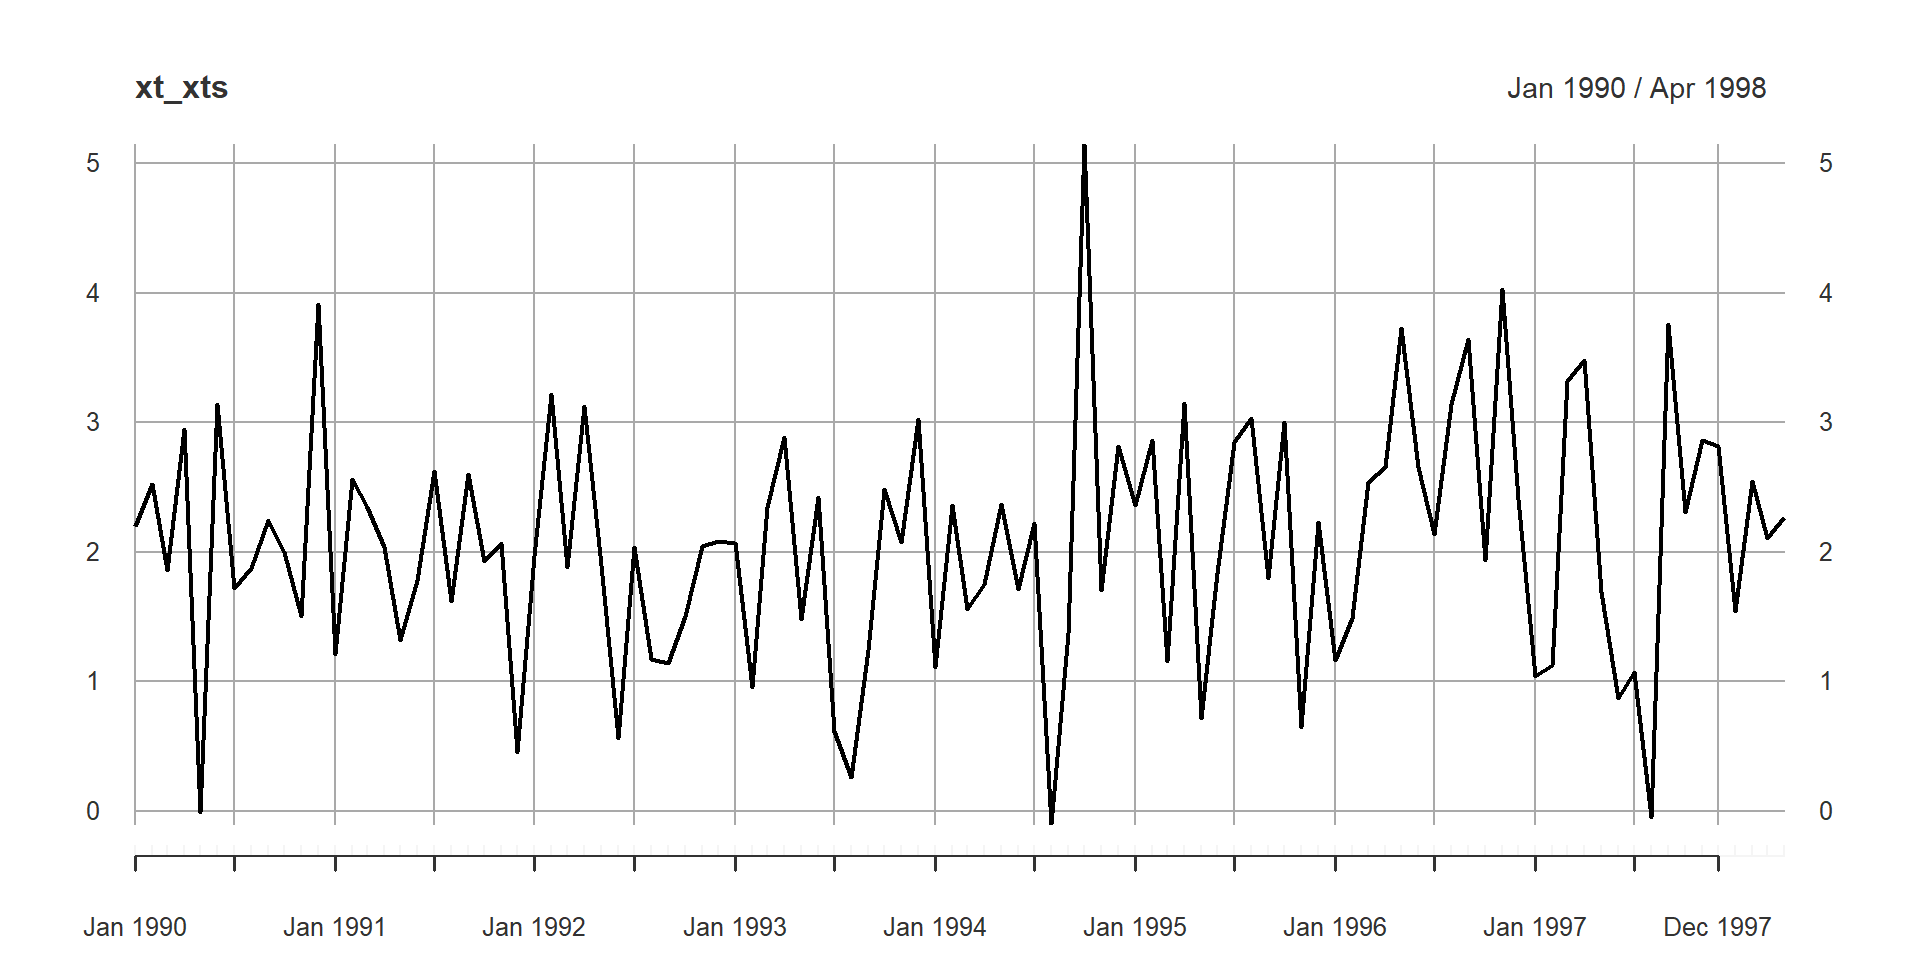
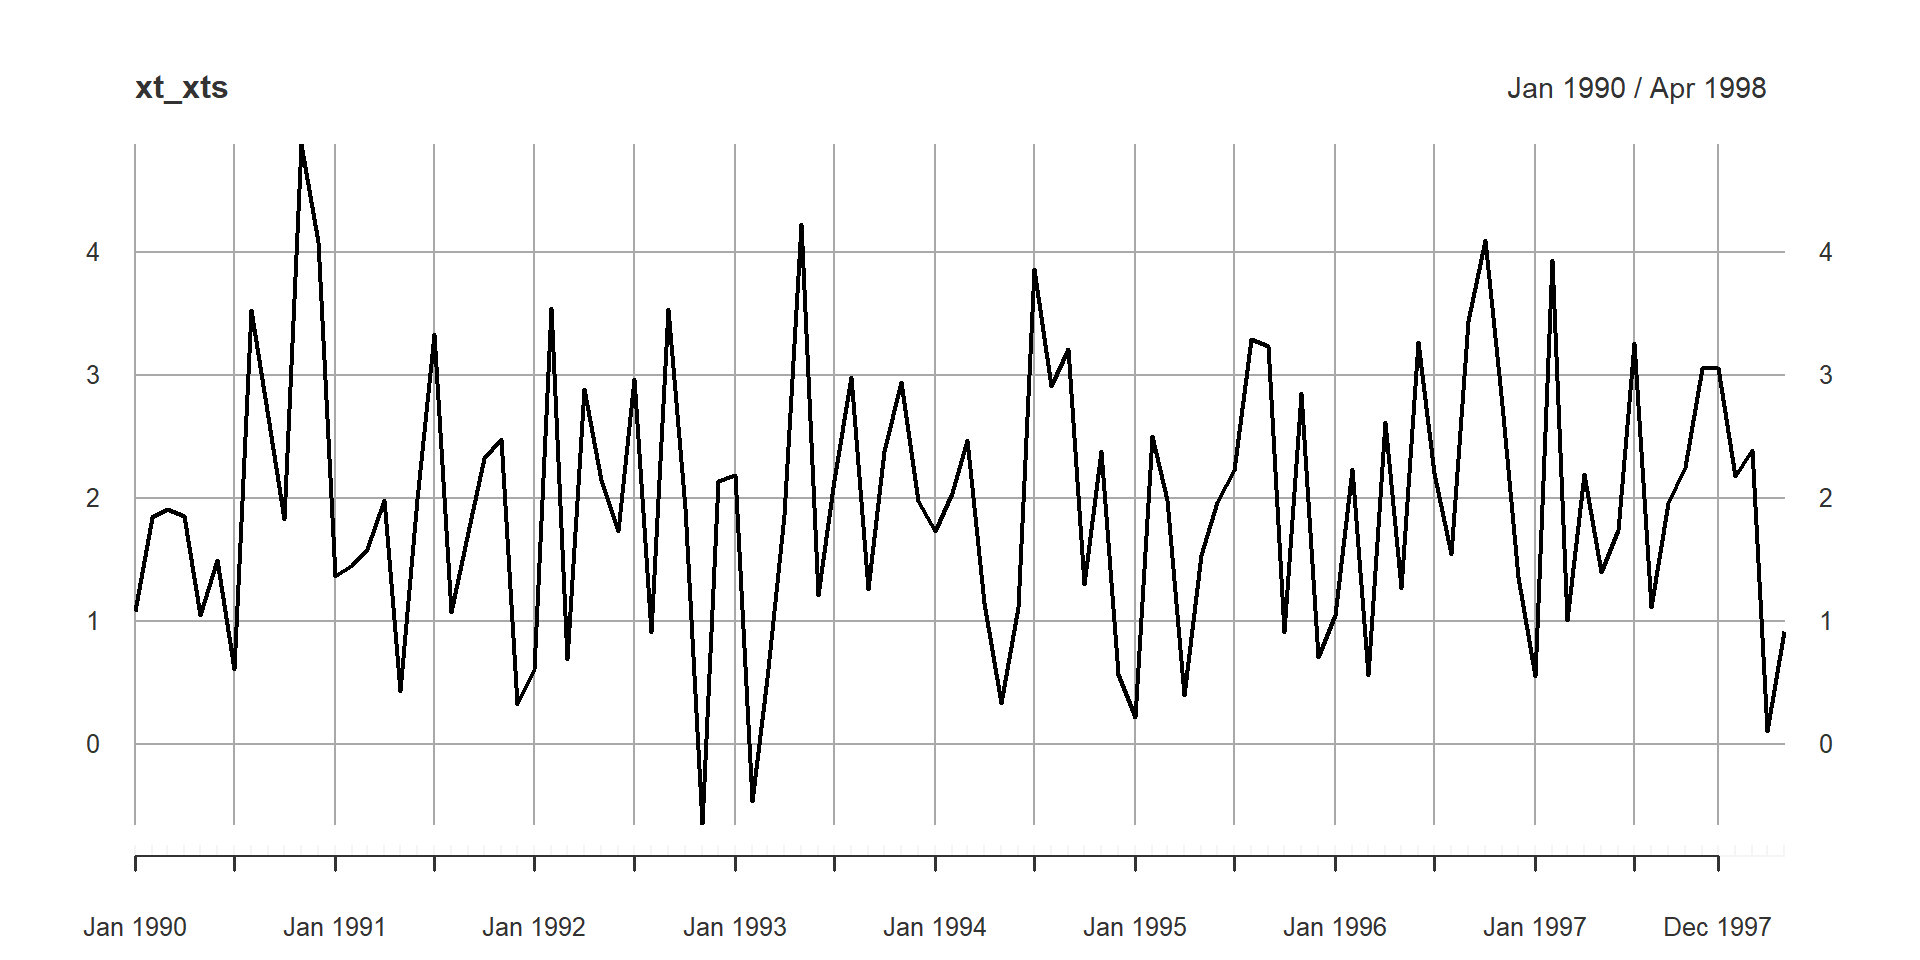
some more changed

Changed region(s): [[0.0625, 0.1562, 0.9375, 0.875], [0.1562, 0.1562, 0.1875, 0.1875]]

diff --git a/index.html b/index.html
@@ -475,6 +475,8 @@
 </ul>
 <aside class="notes">
 <ul>
+<li><span class="math inline">\(y(\omega,t)\)</span></li>
+<li>remeber the bell shape from edx</li>
 <li>cannot be accurately predicted</li>
 </ul>
 </aside>
@@ -488,6 +490,12 @@
 &amp;E\left[\left(y_{t}-\mu\right)\left(y_{t+k}-\mu\right)\right]=r_{k}
 \end{aligned}
 \end{equation}\]</span></p>
+<aside class="notes">
+<ul>
+<li>mention strong form of stationarity</li>
+<li>join distribution is time invariant</li>
+</ul>
+</aside>
 </section>
 <section id="white-noise-process" class="slide level3">
 <h3>White Noise Process</h3>
@@ -527,26 +535,26 @@
 <span id="cb3-10"><a href="#cb3-10"></a>x_t_ts</span></code><button title="Copy to Clipboard" class="code-copy-button"><i class="bi"></i></button></pre></div>
 </details>
 <div class="cell-output-stdout">
-<pre><code>             Jan         Feb         Mar         Apr         May         Jun
-1990  2.19701094  2.52096529  1.85715729  2.94994162 -0.01012742  3.14367312
-1991  1.21071794  2.56230135  2.34822683  2.03340341  1.31508152  1.78136886
-1992  1.96906484  3.22118253  1.88421084  3.12829738  1.89806015  0.55848069
-1993  2.06854666  0.95697888  2.34576125  2.88677161  1.48380777  2.41864131
-1994  1.10850463  2.36041776  1.55454008  1.75188409  2.36714998  1.70846245
-1995  2.35745915  2.86623831  1.15468259  3.15152562  0.71867255  1.83482596
-1996  1.16734803  1.48421590  2.53737356  2.65454015  3.72697844  2.65715412
-1997  1.03842177  1.12402580  3.31954016  3.48112761  1.68855400  0.87127157
-1998  1.53812291  2.54285129  2.10909987  2.26752928                        
-             Jul         Aug         Sep         Oct         Nov         Dec
-1990  1.72057294  1.87408792  2.24597336  2.00015169  1.50332464  3.91544402
-1991  2.62377319  1.61706072  2.59768766  1.92814809  2.06374837  0.45448415
-1992  2.03923917  1.17390936  1.14085473  1.50512083  2.04399260  2.07993544
-1993  0.61580381  0.25933224  1.24135058  2.48285250  2.07639745  3.02871813
-1994  2.22160076 -0.10392118  1.36999144  5.14507259  1.70161921  2.81962822
-1995  2.84465644  3.03559207  1.79516288  3.00491317  0.64678047  2.22810120
-1996  2.13819566  3.14053452  3.63991629  1.93644466  4.02617909  2.40540403
-1997  1.07299358 -0.05139761  3.76244335  2.30771082  2.86075966  2.81770995
-1998                                                                        </code></pre>
+<pre><code>            Jan        Feb        Mar        Apr        May        Jun
+1990  1.0834384  1.8481827  1.9093938  1.8566448  1.0528417  1.4976656
+1991  1.3699989  1.4598241  1.5844592  1.9837157  0.4325042  1.9917466
+1992  0.6159888  3.5412391  0.6970148  2.8874758  2.1513004  1.7346452
+1993  2.1913780 -0.4628993  0.5368351  1.8628671  4.2273413  1.2164529
+1994  1.7318922  2.0426480  2.4706900  1.1481535  0.3393378  1.1144581
+1995  0.2230698  2.5038378  1.9891463  0.4018991  1.5357139  1.9709087
+1996  1.0543016  2.2339481  0.5672743  2.6179950  1.2728514  3.2679542
+1997  0.5560583  3.9378865  1.0081777  2.1989164  1.4035208  1.7408440
+1998  2.1774337  2.3941755  0.1070339  0.9209103                      
+            Jul        Aug        Sep        Oct        Nov        Dec
+1990  0.6121900  3.5320403  2.6615395  1.8321804  4.8732556  4.0781793
+1991  3.3307564  1.0768700  1.7296124  2.3264923  2.4801805  0.3254268
+1992  2.9718396  0.9125291  3.5357528  1.9221587 -0.6467284  2.1414240
+1993  2.1473070  2.9837405  1.2601173  2.3799501  2.9405595  1.9780655
+1994  3.8650035  2.9079102  3.2156159  1.3013822  2.3859060  0.5756583
+1995  2.2323163  3.2899321  3.2340458  0.9170623  2.8565166  0.7102632
+1996  2.2052957  1.5492048  3.4424727  4.0987081  2.7604650  1.3614747
+1997  3.2593523  1.1204501  1.9643167  2.2565232  3.0603864  3.0602958
+1998                                                                  </code></pre>
 </div>
 </div>
 <div class="cell">
@@ -575,107 +583,107 @@
 <span id="cb6-10"><a href="#cb6-10"></a>xt_xts</span></code><button title="Copy to Clipboard" class="code-copy-button"><i class="bi"></i></button></pre></div>
 </details>
 <div class="cell-output-stdout">
-<pre><code>                [,1]
-Jan 1990  2.19701094
-Feb 1990  2.52096529
-Mar 1990  1.85715729
-Apr 1990  2.94994162
-May 1990 -0.01012742
-Jun 1990  3.14367312
-Jul 1990  1.72057294
-Aug 1990  1.87408792
-Sep 1990  2.24597336
-Oct 1990  2.00015169
-Nov 1990  1.50332464
-Dec 1990  3.91544402
-Jan 1991  1.21071794
-Feb 1991  2.56230135
-Mar 1991  2.34822683
-Apr 1991  2.03340341
-May 1991  1.31508152
-Jun 1991  1.78136886
-Jul 1991  2.62377319
-Aug 1991  1.61706072
-Sep 1991  2.59768766
-Oct 1991  1.92814809
-Nov 1991  2.06374837
-Dec 1991  0.45448415
-Jan 1992  1.96906484
-Feb 1992  3.22118253
-Mar 1992  1.88421084
-Apr 1992  3.12829738
-May 1992  1.89806015
-Jun 1992  0.55848069
-Jul 1992  2.03923917
-Aug 1992  1.17390936
-Sep 1992  1.14085473
-Oct 1992  1.50512083
-Nov 1992  2.04399260
-Dec 1992  2.07993544
-Jan 1993  2.06854666
-Feb 1993  0.95697888
-Mar 1993  2.34576125
-Apr 1993  2.88677161
-May 1993  1.48380777
-Jun 1993  2.41864131
-Jul 1993  0.61580381
-Aug 1993  0.25933224
-Sep 1993  1.24135058
-Oct 1993  2.48285250
-Nov 1993  2.07639745
-Dec 1993  3.02871813
-Jan 1994  1.10850463
-Feb 1994  2.36041776
-Mar 1994  1.55454008
-Apr 1994  1.75188409
-May 1994  2.36714998
-Jun 1994  1.70846245
-Jul 1994  2.22160076
-Aug 1994 -0.10392118
-Sep 1994  1.36999144
-Oct 1994  5.14507259
-Nov 1994  1.70161921
-Dec 1994  2.81962822
-Jan 1995  2.35745915
-Feb 1995  2.86623831
-Mar 1995  1.15468259
-Apr 1995  3.15152562
-May 1995  0.71867255
-Jun 1995  1.83482596
-Jul 1995  2.84465644
-Aug 1995  3.03559207
-Sep 1995  1.79516288
-Oct 1995  3.00491317
-Nov 1995  0.64678047
-Dec 1995  2.22810120
-Jan 1996  1.16734803
-Feb 1996  1.48421590
-Mar 1996  2.53737356
-Apr 1996  2.65454015
-May 1996  3.72697844
-Jun 1996  2.65715412
-Jul 1996  2.13819566
-Aug 1996  3.14053452
-Sep 1996  3.63991629
-Oct 1996  1.93644466
-Nov 1996  4.02617909
-Dec 1996  2.40540403
-Jan 1997  1.03842177
-Feb 1997  1.12402580
-Mar 1997  3.31954016
-Apr 1997  3.48112761
-May 1997  1.68855400
-Jun 1997  0.87127157
-Jul 1997  1.07299358
-Aug 1997 -0.05139761
-Sep 1997  3.76244335
-Oct 1997  2.30771082
-Nov 1997  2.86075966
-Dec 1997  2.81770995
-Jan 1998  1.53812291
-Feb 1998  2.54285129
-Mar 1998  2.10909987
-Apr 1998  2.26752928</code></pre>
+<pre><code>               [,1]
+Jan 1990  1.0834384
+Feb 1990  1.8481827
+Mar 1990  1.9093938
+Apr 1990  1.8566448
+May 1990  1.0528417
+Jun 1990  1.4976656
+Jul 1990  0.6121900
+Aug 1990  3.5320403
+Sep 1990  2.6615395
+Oct 1990  1.8321804
+Nov 1990  4.8732556
+Dec 1990  4.0781793
+Jan 1991  1.3699989
+Feb 1991  1.4598241
+Mar 1991  1.5844592
+Apr 1991  1.9837157
+May 1991  0.4325042
+Jun 1991  1.9917466
+Jul 1991  3.3307564
+Aug 1991  1.0768700
+Sep 1991  1.7296124
+Oct 1991  2.3264923
+Nov 1991  2.4801805
+Dec 1991  0.3254268
+Jan 1992  0.6159888
+Feb 1992  3.5412391
+Mar 1992  0.6970148
+Apr 1992  2.8874758
+May 1992  2.1513004
+Jun 1992  1.7346452
+Jul 1992  2.9718396
+Aug 1992  0.9125291
+Sep 1992  3.5357528
+Oct 1992  1.9221587
+Nov 1992 -0.6467284
+Dec 1992  2.1414240
+Jan 1993  2.1913780
+Feb 1993 -0.4628993
+Mar 1993  0.5368351
+Apr 1993  1.8628671
+May 1993  4.2273413
+Jun 1993  1.2164529
+Jul 1993  2.1473070
+Aug 1993  2.9837405
+Sep 1993  1.2601173
+Oct 1993  2.3799501
+Nov 1993  2.9405595
+Dec 1993  1.9780655
+Jan 1994  1.7318922
+Feb 1994  2.0426480
+Mar 1994  2.4706900
+Apr 1994  1.1481535
+May 1994  0.3393378
+Jun 1994  1.1144581
+Jul 1994  3.8650035
+Aug 1994  2.9079102
+Sep 1994  3.2156159
+Oct 1994  1.3013822
+Nov 1994  2.3859060
+Dec 1994  0.5756583
+Jan 1995  0.2230698
+Feb 1995  2.5038378
+Mar 1995  1.9891463
+Apr 1995  0.4018991
+May 1995  1.5357139
+Jun 1995  1.9709087
+Jul 1995  2.2323163
+Aug 1995  3.2899321
+Sep 1995  3.2340458
+Oct 1995  0.9170623
+Nov 1995  2.8565166
+Dec 1995  0.7102632
+Jan 1996  1.0543016
+Feb 1996  2.2339481
+Mar 1996  0.5672743
+Apr 1996  2.6179950
+May 1996  1.2728514
+Jun 1996  3.2679542
+Jul 1996  2.2052957
+Aug 1996  1.5492048
+Sep 1996  3.4424727
+Oct 1996  4.0987081
+Nov 1996  2.7604650
+Dec 1996  1.3614747
+Jan 1997  0.5560583
+Feb 1997  3.9378865
+Mar 1997  1.0081777
+Apr 1997  2.1989164
+May 1997  1.4035208
+Jun 1997  1.7408440
+Jul 1997  3.2593523
+Aug 1997  1.1204501
+Sep 1997  1.9643167
+Oct 1997  2.2565232
+Nov 1997  3.0603864
+Dec 1997  3.0602958
+Jan 1998  2.1774337
+Feb 1998  2.3941755
+Mar 1998  0.1070339
+Apr 1998  0.9209103</code></pre>
 </div>
 </div>
 <div class="cell">
@@ -1012,12 +1020,12 @@ y_{t}=a+b_{1} y_{t-1}+b_{2} y_{t-2}+\ldots .+b_{p} y_{t}+\varepsilon_{t}
 <ul>
 <li class="fragment"><p>RWP is non-stationary but its first difference is stationary <span class="math display">\[\begin{equation}
 \begin{aligned}
-&amp;y_{t}=y_{t-1}+u_{t} \\
-&amp;\Delta y_{t}=u_{t}
+&amp;y_{t}=y_{t-1}+\varepsilon_{t} \\
+&amp;\Delta y_{t}=\varepsilon_{t}
 \end{aligned}
 \end{equation}\]</span></p></li>
 <li class="fragment"><p><span class="math inline">\(y_t\)</span> is said to be integrated of order 1 (<span class="math inline">\(y_{t} \sim I(1)\)</span>)</p></li>
-<li class="fragment"><p>simillarly, <span class="math inline">\(y_t \sim I(2)\)</span> if <span class="math inline">\(\Delta^{2} y_{t}=u_{t}\)</span></p></li>
+<li class="fragment"><p>simillarly, <span class="math inline">\(y_t \sim I(2)\)</span> if <span class="math inline">\(\Delta^{2} y_{t}=\varepsilon_{t}\)</span></p></li>
 </ul>
 <aside class="notes">
 <p>introduce lag operator</p>
@@ -1053,6 +1061,20 @@ y_{t}^{\prime}=y_{t}-y_{t-1}=y_{t}-L y_{t}=(1-L) y_{t}
 </ul></li>
 <li class="fragment">Unit root with structural breaks</li>
 <li class="fragment">KPSS stationarity test</li>
+</ul>
+</section></section>
+<section>
+<section id="where-do-we-go-from-here" class="title-slide slide level2 center">
+<h2>Where do we go from here??</h2>
+
+</section>
+<section id="advanced-topics" class="slide level3">
+<h3>Advanced Topics</h3>
+<ul>
+<li class="fragment">ARIMA models</li>
+<li class="fragment">Modelling Volatility- ARCH/GARCH class of models</li>
+<li class="fragment">Multivariate time series - VAR/VECM</li>
+<li class="fragment">Non-linear time series - TAR/SETAR, MRS, KF</li>
 </ul>
 <div class="footer footer-default">
 
